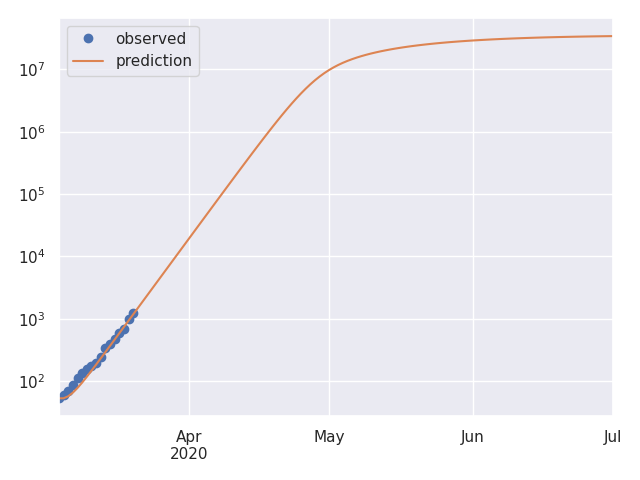
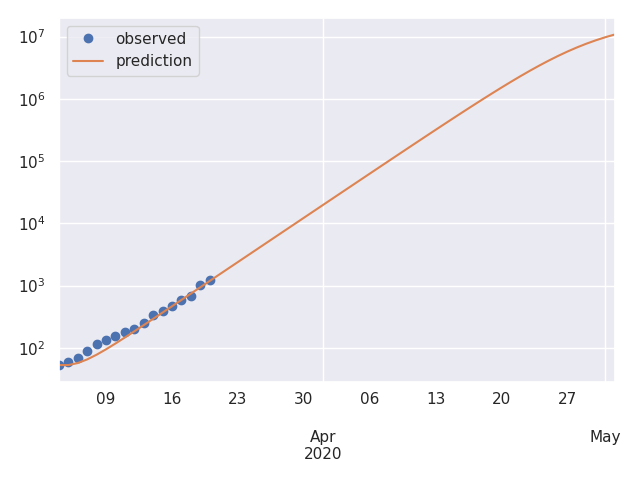
60 days

diff --git a/main.py b/main.py
@@ -75,7 +75,7 @@ def objective(trial):
 
 def fit():
     study = optuna.create_study(sampler=optuna.samplers.TPESampler(seed=0))
-    study.optimize(objective, n_trials=256)
+    study.optimize(objective, n_trials=128)
     return study.best_params
 
 
@@ -84,11 +84,12 @@ def plot(params):
         I_observed,
         index=pandas.date_range('2020-03-04', periods=fit_days, freq='D'),
     )
-    predict_duration = 120
+    predict_duration = 60
     prediction = pandas.Series(
         list(StateIterator(days=predict_duration, **params)),
         index=pandas.date_range('2020-03-04', periods=predict_duration, freq='D'),
     )
+    print(f'infected population: {int(prediction[-1])}')
     seaborn.set()
     ax = observed.plot.line(style='o', label='observed')
     prediction.plot.line(label='prediction')
